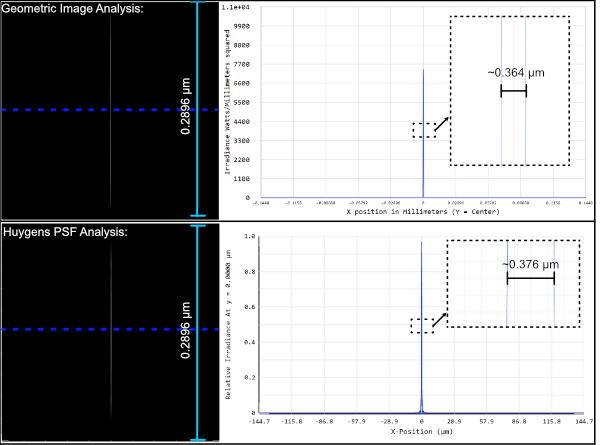
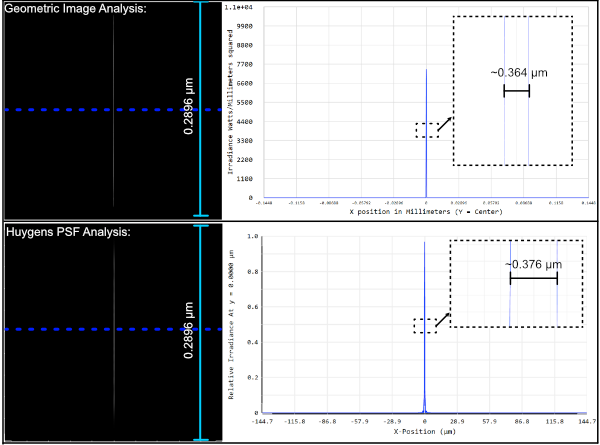
deploy: c35cceda275253135926ff3261742bbbe5f97372

Changed region(s): [[0.0, 0.0, 1.0, 1.0], [0.48, 0.4382, 0.51, 0.4674]]

diff --git a/searchindex.js b/searchindex.js
@@ -1,1 +1,1 @@
-Search.setIndex({"docnames": ["_templates/custom_class", "_templates/custom_module", "design_principles/design_process", "design_principles/required_software", "index", "introduction/aslm", "introduction/background", "introduction/nanospim", "introduction/opm", "introduction/principles"], "filenames": ["_templates/custom_class.rst", "_templates/custom_module.rst", "design_principles/design_process.rst", "design_principles/required_software.rst", "index.rst", "introduction/aslm.rst", "introduction/background.rst", "introduction/nanospim.rst", "introduction/opm.rst", "introduction/principles.rst"], "titles": ["&lt;no title&gt;", "&lt;no title&gt;", "General Design Process", "Required Software and Packages", "<strong>navigate-hardware</strong>", "ASLM", "Why Light-Sheet Microscopy?", "NanoSPIM", "OPM", "Light-Sheet Microscopy Optical Principles"], "terms": {"fullnam": [0, 1], "escap": [0, 1], "underlin": [0, 1], "block": [1, 6], "modul": [1, 6, 7], "rubric": 1, "item": 1, "endfor": 1, "endif": 1, "endblock": 1, "prior": [2, 8], "start": [2, 6], "optic": [2, 3, 4, 5, 6, 7, 8], "": [2, 8], "conveni": [2, 8], "straightforward": 2, "calcul": 2, "determin": 2, "which": [2, 5, 6, 7, 8], "lens": 2, "us": [2, 3, 4, 5, 6, 7, 8], "train": [2, 6, 7, 8], "achiev": [2, 6], "desir": 2, "field": [2, 5, 6, 8, 9], "view": [2, 5, 6, 7, 8, 9], "fov": 2, "your": [2, 7], "detect": [2, 5, 6, 8, 9], "path": [2, 5], "In": [2, 5, 6, 7], "our": [2, 3, 8], "case": [2, 6], "consist": 2, "400": [2, 5], "mm": 2, "tube": 2, "nikon": 2, "25x": 2, "1": [2, 8], "numer": [2, 4, 6, 8], "apertur": [2, 8], "na": 2, "immers": [2, 8], "object": [2, 5, 7, 8, 9], "To": [2, 6, 7, 8], "target": 2, "final": 2, "magnif": 2, "m": 2, "system": [2, 3, 4, 6, 8], "ratio": [2, 6], "focal": [2, 5, 6, 8], "length": [2, 7, 8], "f": 2, "tl": 2, "do": 2, "from": [2, 4, 5, 6, 8], "result": 2, "divid": 2, "total": 2, "camera": [2, 5, 6, 7, 8], "sensor": 2, "size": 2, "convert": [2, 5], "micron": [2, 6], "w": 2, "1000": 2, "For": [2, 3, 5, 6, 8], "thi": [2, 3, 4, 5, 6, 8], "266": 2, "mu": 2, "mean": 2, "we": [2, 3, 5, 8], "want": 2, "illumin": [2, 5, 6, 7, 8, 9], "produc": [2, 6], "light": [2, 4, 5, 8], "sheet": [2, 4, 5, 8], "close": 2, "can": [2, 4, 6, 8], "The": [2, 4, 8], "overarch": 2, "goal": 2, "standard": [2, 8], "i": [2, 3, 4, 5, 6, 7, 8], "both": [2, 4, 6, 8], "mold": 2, "particular": 2, "shape": 2, "direct": [2, 5, 8], "locat": 2, "work": 2, "an": [2, 5, 6, 7, 8], "input": 2, "gaussian": [2, 5], "beam": [2, 5, 7], "thin": [2, 7, 8], "sampl": [2, 5, 6, 7], "There": 2, "ar": [2, 3, 4, 6, 7, 8], "few": 2, "set": 2, "criteria": [2, 6], "help": 2, "guid": 2, "potenti": [2, 6], "As": [2, 5, 7], "mention": [2, 7], "ideal": [2, 5, 6, 7], "cover": 2, "full": 2, "\u03bcm": 2, "At": 2, "cylindr": 2, "spot": 2, "stai": 2, "under": [2, 4], "reson": 2, "galvo": 2, "12": 2, "diamet": 2, "need": [2, 6, 7], "distanc": [2, 7], "between": [2, 5], "mirror": [2, 5], "greater": [2, 7], "than": [2, 5, 8], "55": 2, "due": 2, "mechan": [2, 4, 5, 8], "consider": 2, "mount": [2, 5], "overfil": 2, "reason": [2, 3], "behind": 2, "thinner": 2, "width": 2, "With": 2, "mind": 2, "theoret": 2, "estim": 2, "what": 2, "after": [2, 6], "each": [2, 8], "consid": [2, 6], "everi": [2, 6], "pair": 2, "e": [2, 5, 6, 7], "2": [2, 6, 7, 8], "3": [2, 8], "sort": 2, "4f": [2, 7], "where": 2, "imag": [2, 4, 5, 7, 8], "n": 2, "follow": 2, "essenti": 2, "cascad": 2, "through": [2, 4, 5, 8], "make": 2, "sure": 2, "choic": [2, 3], "characterist": 2, "propag": [2, 5, 7], "chosen": 2, "featur": 2, "4": [2, 6, 7, 8], "thorlab": 2, "l1": 2, "30": 2, "l2": 2, "80": 2, "l3": 2, "75": 2, "l4": 2, "250": 2, "take": [2, 6, 8], "load": 2, "them": [2, 8], "opticstudio": [2, 3], "verifi": 2, "characterisitc": 2, "download": 2, "file": 2, "associ": [2, 4], "directli": 2, "websit": [2, 3, 8], "up": [2, 6], "here": [2, 5, 6], "tool": [2, 6], "optim": [2, 4, 8], "placement": 2, "all": [2, 3, 7], "base": [2, 5, 8], "whether": [2, 4], "should": [2, 4, 6], "focus": [2, 5, 7, 8], "collim": 2, "rule": 2, "thumb": 2, "one": [2, 6, 7], "build": 2, "element": 2, "manner": 2, "instead": 2, "ad": 2, "try": 2, "aspect": [2, 3], "flow": [2, 8], "involv": 2, "either": 2, "next": 2, "same": [2, 8], "until": 2, "place": [2, 6, 8], "describ": 2, "more": [2, 4, 5, 7, 8], "detail": 2, "below": [2, 6], "went": 2, "creat": [2, 5, 7], "new": 2, "match": 2, "laser": [2, 6, 8], "open": 2, "copi": 2, "past": [2, 4], "surfac": 2, "optimz": 2, "wizard": 2, "f1": 2, "variabl": 2, "correct": 2, "posit": [2, 5], "run": 2, "remov": 2, "angular": 2, "d1": 2, "x": [2, 5, 6, 8], "f3": 2, "45": 2, "degre": 2, "d3": 2, "d4": 2, "within": [2, 6, 8], "avail": [2, 3], "investig": [2, 8], "primarili": 2, "geometr": 2, "huygen": 2, "psf": [2, 9], "innat": 2, "rai": [2, 8], "trace": 2, "most": [2, 6, 8], "its": [2, 5, 6, 7, 8], "oper": [2, 4, 8], "like": [2, 3], "accept": 2, "howev": [2, 5, 6, 7, 8], "output": 2, "approach": [2, 7], "diffract": [2, 5, 7], "limit": [2, 6, 7, 8], "frac": 2, "lambda": [2, 6], "2na": 2, "also": [2, 6, 8], "effect": [2, 6], "how": [2, 5, 8], "incorpor": 2, "anticip": 2, "line": [2, 7], "would": 2, "seen": 2, "cross": 2, "section": [2, 4], "see": 2, "expect": 2, "half": 2, "max": 2, "fwhm": 2, "lie": 2, "somewher": 2, "around": 2, "0": 2, "376": 2, "compar": 2, "two": [2, 5], "analys": [2, 6], "show": 2, "xy": 2, "profil": [2, 7], "well": [2, 6, 8], "center": [2, 4], "row": 2, "end": 2, "being": 2, "quit": 2, "similar": 2, "38": 2, "allow": [2, 6, 7, 8], "u": [2, 5, 7, 8], "evolut": 2, "point": [2, 6], "rang": 2, "enough": 2, "purpos": 2, "maximum": 2, "usabl": 2, "multipli": 2, "sqrt": 2, "when": [2, 4, 5, 6], "addit": [2, 6], "known": 2, "becom": 2, "increasingli": [2, 4], "import": [2, 8], "No": 2, "perfect": 2, "understand": 2, "sensit": [2, 6, 8], "variou": 2, "perturb": [2, 8], "along": 2, "small": [2, 6, 8], "displac": 2, "compris": 2, "similarli": 2, "util": [2, 4], "merit": 2, "function": 2, "fulli": 2, "customiz": 2, "serv": [2, 6], "defin": 2, "perform": [2, 4, 6, 7, 8], "chose": 2, "factor": 2, "rel": [2, 8], "perfectli": 2, "instanc": 2, "shown": 2, "operand": 2, "track": 2, "y": [2, 6, 8], "step": [2, 8], "chang": 2, "much": [2, 7], "toler": 2, "machin": 2, "given": 2, "fabric": 2, "compani": [2, 6], "look": 2, "across": 2, "005": 2, "finer": 2, "002": 2, "deviat": 2, "align": [2, 8], "dowel": 2, "pin": 2, "affect": 2, "overal": [2, 9], "depict": 2, "worst": 2, "scenario": 2, "offset": 2, "other": [2, 3], "compens": 2, "wai": 2, "mitig": 2, "tweak": 2, "25mm": 2, "translat": [2, 5, 6], "adjust": 2, "basic": 2, "number": 2, "mont": 2, "carlo": 2, "made": [2, 8], "evalu": [2, 4, 5, 8], "those": [2, 8], "report": 2, "some": [2, 8], "give": 2, "inform": 2, "exampl": [2, 5, 6, 8], "radii": 2, "materi": 2, "properti": 2, "ensur": 2, "abov": [2, 6], "certain": 2, "valu": 2, "though": 2, "even": [2, 6], "difficult": 2, "ascrib": 2, "cutoff": 2, "so": 2, "trend": 2, "correspond": 2, "24th": 2, "caus": 2, "largest": 2, "best": [2, 7, 8], "individu": [2, 4], "window": 2, "nomin": 2, "comparison": 2, "It": 2, "clear": 2, "shorter": 2, "span": 2, "tighter": 2, "might": 2, "offer": [2, 7], "onlin": 2, "typic": 2, "increas": [2, 5, 6, 7], "price": 2, "higher": [2, 7], "benefit": 2, "benefici": 2, "befor": 2, "time": [2, 4, 6, 7], "581": 2, "onc": 2, "again": 2, "advers": 2, "about": 2, "tenth": 2, "larger": [2, 8], "visual": 2, "closer": 2, "satisfi": 2, "suspend": 2, "midair": 2, "polari": 2, "long": [2, 7], "term": [2, 7], "stabil": 2, "compon": [2, 8], "character": 2, "part": [2, 4], "hole": 2, "subsequ": 2, "specif": [2, 6], "axi": [2, 6], "decid": 2, "post": [2, 5], "re": 2, "themselv": 2, "while": [2, 3, 4, 8], "abl": [2, 5, 7, 8], "capabl": 2, "rotat": [2, 5], "someth": 2, "rsp1": 2, "still": 2, "cad": 2, "insert": 2, "link": 2, "FOR": 2, "method": [2, 5, 6, 8], "upon": 2, "over": [2, 7, 8], "product": [2, 3, 6], "schemat": 2, "z": [2, 6], "thei": [2, 7, 8], "impart": 2, "central": 2, "idea": 2, "space": [2, 6], "three": 2, "account": 2, "thick": 2, "were": [2, 8], "autodesk": [2, 3], "inventor": [2, 3], "just": 2, "four": 2, "itself": 2, "These": [2, 8], "increment": 2, "inch": 2, "screw": 2, "breadboard": 2, "tabl": 2, "keep": 2, "height": 2, "briefli": 2, "discuss": [2, 8], "microscop": [2, 4, 7, 8], "navig": 2, "softwar": [2, 4, 5], "ax": 2, "previou": 2, "pictur": 2, "wa": [2, 5, 6, 7, 8], "eas": [2, 4], "20": 2, "predetermin": 2, "worth": 2, "5": [2, 6], "requir": [2, 4, 5, 6, 7], "holder": 2, "iri": 2, "rectangular": 2, "nd": 2, "filter": 2, "breakdown": 2, "list": 2, "onto": [2, 7], "separ": 2, "corner": 2, "ha": [2, 4, 5, 6, 8], "been": [2, 6, 8], "assembl": [2, 4, 8], "stack": 2, "begin": 2, "introduc": [2, 8], "curvatur": 2, "type": 2, "present": [2, 4], "stretch": 2, "bend": 2, "emploi": 2, "have": [2, 6, 8], "built": 2, "collar": 2, "scheme": 2, "order": 2, "fluoresc": [2, 8], "bead": 2, "agaros": 2, "imagej": 2, "quickli": 2, "reslic": 2, "intens": [2, 6], "project": [2, 7], "If": 2, "slight": [2, 8], "repeat": 2, "observ": 2, "live": 2, "feed": 2, "via": [2, 5], "continu": 2, "scan": [2, 5, 6, 7, 8], "mode": 2, "get": 2, "vicin": 2, "aim": [2, 8], "possibl": [2, 6], "move": [2, 8], "true": 2, "done": [2, 7], "quick": 2, "could": [2, 7], "top": 2, "panel": 2, "smooth": 2, "out": [2, 7], "fuzzi": 2, "bottom": 2, "appear": 2, "cleaner": 2, "varieti": 3, "ansi": 3, "zemax": [3, 4], "design": [3, 6, 7, 8], "custom": [3, 8], "basepl": [3, 4], "academ": 3, "licens": [3, 6], "free": [3, 5, 8], "charg": 3, "3d": [3, 4, 5], "model": [3, 6], "autocad": 3, "fusion": 3, "360": 3, "solidwork": 3, "altern": [3, 7], "appar": 3, "paragraph": 3, "biologist": 4, "transit": 4, "toward": [4, 8], "complex": [4, 7], "assai": 4, "volumetr": [4, 7, 8], "high": [4, 5, 6, 7, 8], "spatiotempor": [4, 6], "resolut": [4, 5, 6, 7, 8, 9], "develop": [4, 5, 6, 7, 8], "embryo": [4, 6, 8], "format": [4, 6, 8], "cell": [4, 5, 6, 7, 8], "immunolog": [4, 8], "synaps": [4, 8], "breast": 4, "cancer": 4, "organoid": 4, "migrat": [4, 6], "collagen": [4, 5], "matrix": [4, 5, 6], "cytoskelet": 4, "rearrang": 4, "polar": 4, "epitheli": [4, 7], "monolay": [4, 7], "biolog": [4, 5, 6, 8], "process": [4, 5], "onli": [4, 6, 8], "understood": 4, "non": [4, 6], "invas": 4, "quantit": [4, 6], "entireti": 4, "simpl": 4, "highli": [4, 6, 8], "simplifi": [4, 8], "optomechan": 4, "mainten": 4, "streamlin": 4, "optoelectron": 4, "control": [4, 5, 8], "robust": 4, "reliabl": 4, "activ": [4, 6, 7], "pleas": 4, "advis": 4, "dean": [4, 5, 7, 8], "lab": [4, 8], "implement": 4, "sever": [4, 6, 8], "safeguard": 4, "inher": 4, "risk": 4, "despit": [4, 6], "precaut": 4, "natur": [4, 8], "lead": [4, 6], "unpredict": 4, "outcom": 4, "therefor": [4, 7], "ut": 4, "southwestern": 4, "expressli": 4, "disclaim": 4, "ani": [4, 5, 6], "respons": [4, 8], "damag": 4, "loss": 4, "injuri": 4, "mai": 4, "aris": 4, "relat": 4, "user": 4, "awar": 4, "agre": 4, "own": [4, 6], "why": 4, "microscopi": [4, 5], "nanospim": 4, "aslm": 4, "opm": 4, "packag": [4, 5], "simul": 4, "overlin": 4, "subsect": 4, "gener": [4, 7], "initi": 4, "len": 4, "select": [4, 9], "setup": 4, "analysi": 4, "toleranc": 4, "note": 4, "differ": 4, "physic": 4, "coordin": 4, "definit": 4, "assembli": 4, "find": 4, "focu": [4, 7, 8], "minim": 4, "spheric": [4, 8], "aberr": [4, 5, 8], "includ": [4, 8], "kei": [4, 6, 8], "contribut": [4, 6], "support": 4, "univers": 4, "north": 4, "carolina": 4, "signal": [4, 6], "biomed": 4, "technologi": [4, 5, 6, 8], "dissemin": [4, 5, 6, 8], "btdd": 4, "nih": 4, "nation": 4, "institut": 4, "medic": 4, "scienc": 4, "rm1gm145399": 4, "metastat": [4, 5], "tumor": 4, "program": [4, 8], "cellular": [4, 6], "biologi": 4, "research": 4, "ccbir": 4, "u54ca268072": 4, "techniqu": 5, "successfulli": 5, "decoupl": 5, "trade": 5, "off": [5, 6], "axial": 5, "multiview": 5, "deconvolut": [5, 6], "former": 5, "multipl": [5, 7], "revers": 5, "complementari": 5, "computation": 5, "fuse": 5, "larg": [5, 6, 8], "burden": 5, "specimen": [5, 6, 7, 8], "data": [5, 6], "overhead": 5, "incompat": [5, 7, 8], "biosensor": [5, 6, 7], "contrast": [5, 6, 7], "invent": 5, "fiolka": 5, "2015": 5, "remot": [5, 8], "sweep": 5, "tightli": 5, "synchron": 5, "roll": 5, "shutter": 5, "cmo": 5, "determinist": 5, "piezo": 5, "voic": 5, "coil": 5, "conjug": [5, 8], "plane": [5, 6], "recent": [5, 8], "acceler": 5, "acquisit": [5, 6], "rate": [5, 6, 8], "200": 5, "frame": 5, "per": [5, 6], "second": 5, "novel": 5, "later": [5, 8], "galvanomet": [5, 7, 8], "importantli": [5, 6, 7, 8], "doe": 5, "comput": [5, 6], "deliv": [5, 6, 8], "100": [5, 6], "100\u00b5m": 5, "highest": 5, "nm": 5, "lsfm": [5, 6], "absenc": 5, "super": 5, "g": [5, 6, 7], "structur": [5, 6], "stimul": 5, "emiss": 5, "local": 5, "becaus": [5, 7, 8], "isotrop": [5, 6], "routin": [5, 6], "combin": [5, 6], "advanc": [5, 6], "vision": [5, 6], "alreadi": [5, 6], "provid": 5, "tremend": 5, "insight": [5, 6], "divers": 5, "phenomena": [5, 8], "shape3d": 5, "kra": 5, "pip2": 5, "influenc": 5, "morphologi": [5, 6], "motion": [5, 7], "environ": [5, 6], "refract": [5, 8], "rather": 5, "entir": [5, 8], "compat": [5, 6, 7, 8], "multiplex": [5, 6, 7], "excit": [5, 6, 7], "optogenet": [5, 8], "probe": [5, 6, 8], "suit": [5, 7], "molecular": 5, "underli": 5, "interact": 5, "extracellular": [5, 6], "histor": 6, "spin": 6, "disk": 6, "confoc": 6, "indiscrimin": 6, "region": [6, 8], "thu": [6, 7, 8], "incur": 6, "photobleach": [6, 7], "phototox": 6, "problem": 6, "further": 6, "exacerb": 6, "reduc": [6, 7, 8], "duti": [6, 9], "cycl": [6, 9], "percentag": 6, "durat": 6, "necessarili": 6, "compensatori": 6, "power": [6, 7], "depend": 6, "restrict": 6, "2d": 6, "interest": 6, "ow": [6, 8], "quantum": 6, "effici": 6, "massiv": 6, "parallel": [6, 8], "scientif": [6, 8], "4x10": 6, "6": [6, 8], "without": 6, "compromis": [6, 8], "speed": 6, "nois": 6, "illustr": 6, "common": 6, "voxel": 6, "dwell": 6, "1\u00b5": 6, "16": 6, "captur": [6, 8], "2048x2048": 6, "ident": 6, "5m": 6, "832": 6, "fold": [6, 7, 8], "faster": [6, 7], "yet": 6, "000": 6, "longer": 6, "consequ": 6, "veri": [6, 7], "delic": 6, "gain": 6, "event": [6, 7], "subcellular": 6, "scale": 6, "must": 6, "molecularli": 6, "label": 6, "opto": 6, "chemogenet": [6, 8], "human": 6, "interpret": 6, "5d": 6, "t": 6, "dataset": 6, "met": 6, "nyquist": 6, "gtpase": 6, "rho": 6, "rac": 6, "cdc42": 6, "short": 6, "occur": 6, "complet": 6, "volum": 6, "acquir": 6, "spatial": [6, 7], "500nm": 6, "And": [6, 8], "avoid": 6, "artifact": 6, "nearli": 6, "inde": 6, "particularli": 6, "plasma": 6, "membran": 6, "readout": 6, "simultan": [6, 7, 8], "multicolor": [6, 7], "leverag": [6, 8], "uncompromis": 6, "impact": 6, "ectop": 6, "express": 6, "protein": 6, "toxic": 6, "latter": 6, "10": [6, 8], "slice": 6, "construct": 6, "dimens": 6, "maxim": [6, 8], "mani": 6, "25\u00b5m": [6, 7], "lastli": [6, 8], "downstream": 6, "analyt": 6, "cannot": 6, "iter": 6, "improv": 6, "alter": 6, "statist": [6, 7], "necessari": 6, "exist": 6, "aesthet": 6, "attract": 6, "engin": 6, "servic": 6, "return": 6, "invest": 6, "manufactur": 6, "incredibli": 6, "conserv": 6, "come": 6, "adopt": [6, 8], "emerg": 6, "7": [6, 8], "year": 6, "commerci": 6, "immedi": 6, "obsolet": 6, "commun": 6, "dure": [6, 7, 8], "interim": 6, "One": 6, "except": 6, "llsm": [6, 7, 8], "sub": 6, "zeiss": 6, "3i": 6, "month": 6, "semin": 6, "public": 6, "nonetheless": [6, 8], "took": [6, 8], "releas": 6, "consum": 6, "friendli": 6, "prohibit": [6, 8], "cost": 6, "1m": 6, "usd": 6, "convolut": 6, "entangl": 6, "patent": 6, "landscap": 6, "add": 6, "delai": 6, "access": 6, "market": 6, "leica": 6, "exclus": 6, "tertiari": [6, 8], "therebi": 6, "obliqu": 6, "impedi": 6, "transform": 6, "cut": 6, "edg": 6, "superposit": 7, "invari": 7, "sourc": 7, "theori": 7, "maintain": 7, "narrow": 7, "waist": 7, "arbitrarili": 7, "practic": 7, "accompani": [7, 8], "sidelob": 7, "blur": 7, "degrad": [7, 8], "contrast8": 7, "modest": 7, "adher": 7, "previous": 7, "sculpt": 7, "furthermor": [7, 8], "decreas": 7, "throughput": 7, "expens": 7, "overcom": [7, 8], "colleagu": 7, "mathemat": 7, "theorem": 7, "recreat": 7, "averag": 7, "dither": 7, "replica": 7, "multiplexing11": 7, "amplitud": 7, "phase": 7, "back": 7, "pupil": [7, 8], "appropri": 7, "binari": 7, "mask": 7, "singl": [7, 8], "exposur": 7, "telescop": 7, "indistinguish": 7, "demonstr": 7, "pi3k": 7, "filopodi": 7, "bleb": 7, "dynam": 7, "mv3": 7, "melanoma": 7, "wavelength": 7, "critic": [7, 8], "fast": 7, "morpholog": [7, 8], "buckl": 7, "orthogon": 8, "geometri": 8, "underappreci": 8, "disadvantag": 8, "hardwar": 8, "thermal": 8, "drift": 8, "dish": 8, "multi": 8, "plate": 8, "microfluid": 8, "establish": 8, "chemotact": 8, "gradient": 8, "chamber": 8, "level": 8, "shear": 8, "stress": 8, "reagent": 8, "consumpt": 8, "8": 8, "5ml": 8, "pharmacolog": 8, "braf": 8, "inhibit": 8, "water": 8, "dip": 8, "steril": 8, "slow": 8, "24": 8, "hour": 8, "sarcomerogenesi": 8, "effort": 8, "ultra": 8, "fluorocarbon": 8, "foil": 8, "cuvett": 8, "index": 8, "mismatch": 8, "amount": 8, "launch": 8, "collect": 8, "refer": 8, "primari": 8, "secondari": 8, "reorient": 8, "invert": 8, "remain": 8, "suffer": 8, "diminish": 8, "imperfect": 8, "margin": 8, "bo": 8, "huang": 8, "ucsf": 8, "compress": 8, "cone": 8, "camera58": 8, "cowork": 8, "concept": 8, "logic": 8, "conclus": 8, "solid": 8, "impress": 8, "28": 8, "29": 8, "raw": 8, "299x336x731nm": 8, "extent": 8, "gastrul": 8, "drosophila": 8, "identifi": 8, "rare": 8, "subset": 8, "killer": 8, "form": 8, "Its": 8, "precis": 8, "photoactiv": 8, "rac1": 8, "lamellipodia": 8, "fibroblast": 8, "squeez": 8, "confin": 8, "devic": 8, "rapidli": 8, "de": 8, "calcium": 8, "wave": 8, "cytoplasm": 8, "diffus": 8, "13": 8, "hz": 8, "respect": 8, "Of": 8, "technic": 8, "demand": 8, "front": 8, "glass": 8, "interfac": 8, "execut": 8, "autom": 8, "fashion": 8, "diascop": 8, "carefulli": 8, "fix": 8, "asi": 8, "stationari": 8, "depth": 8, "visitor": 8, "dbp": 8, "core": 8, "facil": 8, "manag": 8, "propos": 8, "uniform": 9}, "objects": {}, "objtypes": {}, "objnames": {}, "titleterms": {"gener": 2, "design": [2, 4], "process": 2, "initi": 2, "len": 2, "select": 2, "zemax": 2, "simul": [2, 3], "setup": 2, "analysi": 2, "toleranc": 2, "basepl": 2, "note": 2, "differ": 2, "physic": 2, "coordin": 2, "definit": 2, "assembli": 2, "find": 2, "focu": 2, "minim": 2, "spheric": 2, "aberr": 2, "requir": 3, "softwar": 3, "packag": 3, "overlin": 3, "part": 3, "section": 3, "subsect": 3, "navig": 4, "hardwar": 4, "project": 4, "philosophi": 4, "introduct": 4, "principl": [4, 9], "author": 4, "fund": 4, "aslm": 5, "why": 6, "light": [6, 7, 9], "sheet": [6, 7, 9], "microscopi": [6, 7, 8, 9], "The": 6, "import": 6, "volumetr": 6, "imag": 6, "challeng": [6, 8], "3d": 6, "build": 6, "microscop": 6, "nanospim": 7, "background": [7, 8], "lattic": 7, "field": 7, "synthesi": 7, "opm": 8, "pitfal": 8, "lsfm": 8, "obliqu": 8, "plane": 8, "uniqu": 8, "optic": 9}, "envversion": {"sphinx.domains.c": 2, "sphinx.domains.changeset": 1, "sphinx.domains.citation": 1, "sphinx.domains.cpp": 8, "sphinx.domains.index": 1, "sphinx.domains.javascript": 2, "sphinx.domains.math": 2, "sphinx.domains.python": 3, "sphinx.domains.rst": 2, "sphinx.domains.std": 2, "sphinx": 57}, "alltitles": {"General Design Process": [[2, "general-design-process"]], "Initial Lens Selection": [[2, "initial-lens-selection"]], "Zemax Simulation Setup Process": [[2, "zemax-simulation-setup-process"]], "Zemax Simulation Analysis": [[2, "zemax-simulation-analysis"]], "Zemax Tolerancing Analysis": [[2, "zemax-tolerancing-analysis"]], "Baseplate Design": [[2, "baseplate-design"]], "Note on Difference in Simulated and Physical Coordinate Definitions": [[2, "note-on-difference-in-simulated-and-physical-coordinate-definitions"]], "Physical Assembly Process": [[2, "physical-assembly-process"]], "Finding the Focus": [[2, "finding-the-focus"]], "Minimizing Spherical Aberrations": [[2, "minimizing-spherical-aberrations"]], "Required Software and Packages": [[3, "required-software-and-packages"]], "Simulations": [[3, "simulations"]], "Overline for parts": [[3, "overline-for-parts"]], "Overline": [[3, "overline"]], "Sections": [[3, "sections"]], "Subsection": [[3, "subsection"]], "navigate-hardware": [[4, "navigate-hardware"]], "Project Philosophy": [[4, "project-philosophy"]], "Introduction": [[4, null]], "Design Principles": [[4, null]], "Authors": [[4, "authors"]], "Funding": [[4, "funding"]], "ASLM": [[5, "aslm"]], "Why Light-Sheet Microscopy?": [[6, "why-light-sheet-microscopy"]], "The Importance of Volumetric Imaging.": [[6, "the-importance-of-volumetric-imaging"]], "Challenges with 3D Imaging.": [[6, "challenges-with-3d-imaging"]], "Why build a microscope?": [[6, "why-build-a-microscope"]], "NanoSPIM": [[7, "nanospim"], [7, "id1"]], "Background": [[7, "background"], [8, "background"]], "Lattice Light-Sheet Microscopy": [[7, "lattice-light-sheet-microscopy"]], "Field Synthesis": [[7, "field-synthesis"]], "OPM": [[8, "opm"]], "Pitfalls of LSFM": [[8, "pitfalls-of-lsfm"]], "Oblique Plane Microscopy": [[8, "oblique-plane-microscopy"]], "Unique Challenges with OPMs": [[8, "unique-challenges-with-opms"]], "Light-Sheet Microscopy Optical Principles": [[9, "light-sheet-microscopy-optical-principles"]]}, "indexentries": {}})
+Search.setIndex({"docnames": ["_templates/custom_class", "_templates/custom_module", "design_principles/design_process", "design_principles/required_software", "index", "introduction/aslm", "introduction/background", "introduction/nanospim", "introduction/opm", "introduction/principles"], "filenames": ["_templates/custom_class.rst", "_templates/custom_module.rst", "design_principles/design_process.rst", "design_principles/required_software.rst", "index.rst", "introduction/aslm.rst", "introduction/background.rst", "introduction/nanospim.rst", "introduction/opm.rst", "introduction/principles.rst"], "titles": ["&lt;no title&gt;", "&lt;no title&gt;", "General Design Process", "Required Software and Packages", "<strong>navigate-hardware</strong>", "ASLM", "Why Light-Sheet Microscopy?", "NanoSPIM", "OPM", "Light-Sheet Microscopy Optical Principles"], "terms": {"fullnam": [0, 1], "escap": [0, 1], "underlin": [0, 1], "block": [1, 6], "modul": [1, 6, 7], "rubric": 1, "item": 1, "endfor": 1, "endif": 1, "endblock": 1, "prior": [2, 8], "start": [2, 6], "optic": [2, 3, 4, 5, 6, 7, 8], "": [2, 8], "conveni": [2, 8], "straightforward": 2, "calcul": 2, "determin": 2, "which": [2, 5, 6, 7, 8], "lens": 2, "us": [2, 3, 4, 5, 6, 7, 8], "train": [2, 6, 7, 8], "achiev": [2, 6], "desir": 2, "field": [2, 5, 6, 8, 9], "view": [2, 5, 6, 7, 8, 9], "fov": 2, "your": [2, 7], "detect": [2, 5, 6, 8, 9], "path": [2, 5], "In": [2, 5, 6, 7], "our": [2, 3, 8], "case": [2, 6], "consist": 2, "400": [2, 5], "mm": 2, "tube": 2, "nikon": 2, "25x": 2, "1": [2, 8], "numer": [2, 4, 6, 8], "apertur": [2, 8], "na": 2, "immers": [2, 8], "object": [2, 5, 7, 8, 9], "To": [2, 6, 7, 8], "target": 2, "final": 2, "magnif": 2, "m": 2, "system": [2, 3, 4, 6, 8], "ratio": [2, 6], "focal": [2, 5, 6, 8], "length": [2, 7, 8], "f": 2, "tl": 2, "do": 2, "from": [2, 4, 5, 6, 8], "result": 2, "divid": 2, "total": 2, "camera": [2, 5, 6, 7, 8], "sensor": 2, "size": 2, "convert": [2, 5], "micron": [2, 6], "w": 2, "1000": 2, "For": [2, 3, 5, 6, 8], "thi": [2, 3, 4, 5, 6, 8], "266": 2, "mu": 2, "mean": 2, "we": [2, 3, 5, 8], "want": 2, "illumin": [2, 5, 6, 7, 8, 9], "produc": [2, 6], "light": [2, 4, 5, 8], "sheet": [2, 4, 5, 8], "close": 2, "can": [2, 4, 6, 8], "The": [2, 4, 8], "overarch": 2, "goal": 2, "standard": [2, 8], "i": [2, 3, 4, 5, 6, 7, 8], "both": [2, 4, 6, 8], "mold": 2, "particular": 2, "shape": 2, "direct": [2, 5, 8], "locat": 2, "work": 2, "an": [2, 5, 6, 7, 8], "input": 2, "gaussian": [2, 5], "beam": [2, 5, 7], "thin": [2, 7, 8], "sampl": [2, 5, 6, 7], "There": 2, "ar": [2, 3, 4, 6, 7, 8], "few": 2, "set": 2, "criteria": [2, 6], "help": 2, "guid": 2, "potenti": [2, 6], "As": [2, 5, 7], "mention": [2, 7], "ideal": [2, 5, 6, 7], "cover": 2, "full": 2, "\u03bcm": 2, "At": 2, "cylindr": 2, "spot": 2, "stai": 2, "under": [2, 4], "reson": 2, "galvo": 2, "12": 2, "diamet": 2, "need": [2, 6, 7], "distanc": [2, 7], "between": [2, 5], "mirror": [2, 5], "greater": [2, 7], "than": [2, 5, 8], "55": 2, "due": 2, "mechan": [2, 4, 5, 8], "consider": 2, "mount": [2, 5], "overfil": 2, "reason": [2, 3], "behind": 2, "thinner": 2, "width": 2, "With": 2, "mind": 2, "theoret": 2, "estim": 2, "what": 2, "after": [2, 6], "each": [2, 8], "consid": [2, 6], "everi": [2, 6], "pair": 2, "e": [2, 5, 6, 7], "2": [2, 6, 7, 8], "3": [2, 8], "sort": 2, "4f": [2, 7], "where": 2, "imag": [2, 4, 5, 7, 8], "n": 2, "follow": 2, "essenti": 2, "cascad": 2, "through": [2, 4, 5, 8], "make": 2, "sure": 2, "choic": [2, 3], "characterist": 2, "propag": [2, 5, 7], "chosen": 2, "featur": 2, "4": [2, 6, 7, 8], "thorlab": 2, "l1": 2, "30": 2, "l2": 2, "80": 2, "l3": 2, "75": 2, "l4": 2, "250": 2, "take": [2, 6, 8], "load": 2, "them": [2, 8], "opticstudio": [2, 3], "verifi": 2, "characterisitc": 2, "download": 2, "file": 2, "associ": [2, 4], "directli": 2, "websit": [2, 3, 8], "up": [2, 6], "here": [2, 5, 6], "tool": [2, 6], "optim": [2, 4, 8], "placement": 2, "all": [2, 3, 7], "base": [2, 5, 8], "whether": [2, 4], "should": [2, 4, 6], "focus": [2, 5, 7, 8], "collim": 2, "rule": 2, "thumb": 2, "one": [2, 6, 7], "build": 2, "element": 2, "manner": 2, "instead": 2, "ad": 2, "try": 2, "aspect": [2, 3], "flow": [2, 8], "involv": 2, "either": 2, "next": 2, "same": [2, 8], "until": 2, "place": [2, 6, 8], "describ": 2, "more": [2, 4, 5, 7, 8], "detail": 2, "below": [2, 6], "went": 2, "creat": [2, 5, 7], "new": 2, "match": 2, "laser": [2, 6, 8], "open": 2, "copi": 2, "past": [2, 4], "surfac": 2, "optimz": 2, "wizard": 2, "f1": 2, "variabl": 2, "correct": 2, "posit": [2, 5], "run": 2, "remov": 2, "angular": 2, "d1": 2, "x": [2, 5, 6, 8], "f3": 2, "45": 2, "degre": 2, "d3": 2, "d4": 2, "within": [2, 6, 8], "avail": [2, 3], "investig": [2, 8], "primarili": 2, "geometr": 2, "huygen": 2, "psf": [2, 9], "innat": 2, "rai": [2, 8], "trace": 2, "most": [2, 6, 8], "its": [2, 5, 6, 7, 8], "oper": [2, 4, 8], "like": [2, 3], "accept": 2, "howev": [2, 5, 6, 7, 8], "output": 2, "approach": [2, 7], "diffract": [2, 5, 7], "limit": [2, 6, 7, 8], "frac": 2, "lambda": [2, 6], "2na": 2, "also": [2, 6, 8], "effect": [2, 6], "how": [2, 5, 8], "incorpor": 2, "anticip": 2, "line": [2, 7], "would": 2, "seen": 2, "cross": 2, "section": [2, 4], "see": 2, "expect": 2, "half": 2, "max": 2, "fwhm": 2, "lie": 2, "somewher": 2, "around": 2, "0": 2, "376": 2, "compar": 2, "two": [2, 5], "analys": [2, 6], "show": 2, "xy": 2, "profil": [2, 7], "well": [2, 6, 8], "center": [2, 4], "row": 2, "end": 2, "being": 2, "quit": 2, "similar": 2, "37": 2, "allow": [2, 6, 7, 8], "u": [2, 5, 7, 8], "evolut": 2, "point": [2, 6], "rang": 2, "enough": 2, "purpos": 2, "maximum": 2, "usabl": 2, "multipli": 2, "sqrt": 2, "when": [2, 4, 5, 6], "addit": [2, 6], "known": 2, "becom": 2, "increasingli": [2, 4], "import": [2, 8], "No": 2, "perfect": 2, "understand": 2, "sensit": [2, 6, 8], "variou": 2, "perturb": [2, 8], "along": 2, "small": [2, 6, 8], "displac": 2, "compris": 2, "similarli": 2, "util": [2, 4], "merit": 2, "function": 2, "fulli": 2, "customiz": 2, "serv": [2, 6], "defin": 2, "perform": [2, 4, 6, 7, 8], "chose": 2, "factor": 2, "rel": [2, 8], "perfectli": 2, "instanc": 2, "shown": 2, "operand": 2, "track": 2, "y": [2, 6, 8], "step": [2, 8], "chang": 2, "much": [2, 7], "toler": 2, "machin": 2, "given": 2, "fabric": 2, "compani": [2, 6], "look": 2, "across": 2, "005": 2, "finer": 2, "002": 2, "deviat": 2, "align": [2, 8], "dowel": 2, "pin": 2, "affect": 2, "overal": [2, 9], "depict": 2, "worst": 2, "scenario": 2, "offset": 2, "other": [2, 3], "compens": 2, "wai": 2, "mitig": 2, "tweak": 2, "25mm": 2, "translat": [2, 5, 6], "adjust": 2, "basic": 2, "number": 2, "mont": 2, "carlo": 2, "made": [2, 8], "evalu": [2, 4, 5, 8], "those": [2, 8], "report": 2, "some": [2, 8], "give": 2, "inform": 2, "exampl": [2, 5, 6, 8], "radii": 2, "materi": 2, "properti": 2, "ensur": 2, "abov": [2, 6], "certain": 2, "valu": 2, "though": 2, "even": [2, 6], "difficult": 2, "ascrib": 2, "cutoff": 2, "so": 2, "trend": 2, "correspond": 2, "24th": 2, "caus": 2, "largest": 2, "best": [2, 7, 8], "individu": [2, 4], "window": 2, "nomin": 2, "comparison": 2, "It": 2, "clear": 2, "shorter": 2, "span": 2, "tighter": 2, "might": 2, "offer": [2, 7], "onlin": 2, "typic": 2, "increas": [2, 5, 6, 7], "price": 2, "higher": [2, 7], "benefit": 2, "benefici": 2, "befor": 2, "time": [2, 4, 6, 7], "581": 2, "onc": 2, "again": 2, "advers": 2, "about": 2, "tenth": 2, "larger": [2, 8], "visual": 2, "closer": 2, "satisfi": 2, "suspend": 2, "midair": 2, "polari": 2, "long": [2, 7], "term": [2, 7], "stabil": 2, "compon": [2, 8], "character": 2, "part": [2, 4], "hole": 2, "subsequ": 2, "specif": [2, 6], "axi": [2, 6], "decid": 2, "post": [2, 5], "re": 2, "themselv": 2, "while": [2, 3, 4, 8], "abl": [2, 5, 7, 8], "capabl": 2, "rotat": [2, 5], "someth": 2, "rsp1": 2, "still": 2, "cad": 2, "insert": 2, "link": 2, "FOR": 2, "method": [2, 5, 6, 8], "upon": 2, "over": [2, 7, 8], "product": [2, 3, 6], "schemat": 2, "z": [2, 6], "thei": [2, 7, 8], "impart": 2, "central": 2, "idea": 2, "space": [2, 6], "three": 2, "account": 2, "thick": 2, "were": [2, 8], "autodesk": [2, 3], "inventor": [2, 3], "just": 2, "four": 2, "itself": 2, "These": [2, 8], "increment": 2, "inch": 2, "screw": 2, "breadboard": 2, "tabl": 2, "keep": 2, "height": 2, "briefli": 2, "discuss": [2, 8], "microscop": [2, 4, 7, 8], "navig": 2, "softwar": [2, 4, 5], "ax": 2, "previou": 2, "pictur": 2, "wa": [2, 5, 6, 7, 8], "eas": [2, 4], "20": 2, "predetermin": 2, "worth": 2, "5": [2, 6], "requir": [2, 4, 5, 6, 7], "holder": 2, "iri": 2, "rectangular": 2, "nd": 2, "filter": 2, "breakdown": 2, "list": 2, "onto": [2, 7], "separ": 2, "corner": 2, "ha": [2, 4, 5, 6, 8], "been": [2, 6, 8], "assembl": [2, 4, 8], "stack": 2, "begin": 2, "introduc": [2, 8], "curvatur": 2, "type": 2, "present": [2, 4], "stretch": 2, "bend": 2, "emploi": 2, "have": [2, 6, 8], "built": 2, "collar": 2, "scheme": 2, "order": 2, "fluoresc": [2, 8], "bead": 2, "agaros": 2, "imagej": 2, "quickli": 2, "reslic": 2, "intens": [2, 6], "project": [2, 7], "If": 2, "slight": [2, 8], "repeat": 2, "observ": 2, "live": 2, "feed": 2, "via": [2, 5], "continu": 2, "scan": [2, 5, 6, 7, 8], "mode": 2, "get": 2, "vicin": 2, "aim": [2, 8], "possibl": [2, 6], "move": [2, 8], "true": 2, "done": [2, 7], "quick": 2, "could": [2, 7], "top": 2, "panel": 2, "smooth": 2, "out": [2, 7], "fuzzi": 2, "bottom": 2, "appear": 2, "cleaner": 2, "varieti": 3, "ansi": 3, "zemax": [3, 4], "design": [3, 6, 7, 8], "custom": [3, 8], "basepl": [3, 4], "academ": 3, "licens": [3, 6], "free": [3, 5, 8], "charg": 3, "3d": [3, 4, 5], "model": [3, 6], "autocad": 3, "fusion": 3, "360": 3, "solidwork": 3, "altern": [3, 7], "appar": 3, "paragraph": 3, "biologist": 4, "transit": 4, "toward": [4, 8], "complex": [4, 7], "assai": 4, "volumetr": [4, 7, 8], "high": [4, 5, 6, 7, 8], "spatiotempor": [4, 6], "resolut": [4, 5, 6, 7, 8, 9], "develop": [4, 5, 6, 7, 8], "embryo": [4, 6, 8], "format": [4, 6, 8], "cell": [4, 5, 6, 7, 8], "immunolog": [4, 8], "synaps": [4, 8], "breast": 4, "cancer": 4, "organoid": 4, "migrat": [4, 6], "collagen": [4, 5], "matrix": [4, 5, 6], "cytoskelet": 4, "rearrang": 4, "polar": 4, "epitheli": [4, 7], "monolay": [4, 7], "biolog": [4, 5, 6, 8], "process": [4, 5], "onli": [4, 6, 8], "understood": 4, "non": [4, 6], "invas": 4, "quantit": [4, 6], "entireti": 4, "simpl": 4, "highli": [4, 6, 8], "simplifi": [4, 8], "optomechan": 4, "mainten": 4, "streamlin": 4, "optoelectron": 4, "control": [4, 5, 8], "robust": 4, "reliabl": 4, "activ": [4, 6, 7], "pleas": 4, "advis": 4, "dean": [4, 5, 7, 8], "lab": [4, 8], "implement": 4, "sever": [4, 6, 8], "safeguard": 4, "inher": 4, "risk": 4, "despit": [4, 6], "precaut": 4, "natur": [4, 8], "lead": [4, 6], "unpredict": 4, "outcom": 4, "therefor": [4, 7], "ut": 4, "southwestern": 4, "expressli": 4, "disclaim": 4, "ani": [4, 5, 6], "respons": [4, 8], "damag": 4, "loss": 4, "injuri": 4, "mai": 4, "aris": 4, "relat": 4, "user": 4, "awar": 4, "agre": 4, "own": [4, 6], "why": 4, "microscopi": [4, 5], "nanospim": 4, "aslm": 4, "opm": 4, "packag": [4, 5], "simul": 4, "overlin": 4, "subsect": 4, "gener": [4, 7], "initi": 4, "len": 4, "select": [4, 9], "setup": 4, "analysi": 4, "toleranc": 4, "note": 4, "differ": 4, "physic": 4, "coordin": 4, "definit": 4, "assembli": 4, "find": 4, "focu": [4, 7, 8], "minim": 4, "spheric": [4, 8], "aberr": [4, 5, 8], "includ": [4, 8], "kei": [4, 6, 8], "contribut": [4, 6], "support": 4, "univers": 4, "north": 4, "carolina": 4, "signal": [4, 6], "biomed": 4, "technologi": [4, 5, 6, 8], "dissemin": [4, 5, 6, 8], "btdd": 4, "nih": 4, "nation": 4, "institut": 4, "medic": 4, "scienc": 4, "rm1gm145399": 4, "metastat": [4, 5], "tumor": 4, "program": [4, 8], "cellular": [4, 6], "biologi": 4, "research": 4, "ccbir": 4, "u54ca268072": 4, "techniqu": 5, "successfulli": 5, "decoupl": 5, "trade": 5, "off": [5, 6], "axial": 5, "multiview": 5, "deconvolut": [5, 6], "former": 5, "multipl": [5, 7], "revers": 5, "complementari": 5, "computation": 5, "fuse": 5, "larg": [5, 6, 8], "burden": 5, "specimen": [5, 6, 7, 8], "data": [5, 6], "overhead": 5, "incompat": [5, 7, 8], "biosensor": [5, 6, 7], "contrast": [5, 6, 7], "invent": 5, "fiolka": 5, "2015": 5, "remot": [5, 8], "sweep": 5, "tightli": 5, "synchron": 5, "roll": 5, "shutter": 5, "cmo": 5, "determinist": 5, "piezo": 5, "voic": 5, "coil": 5, "conjug": [5, 8], "plane": [5, 6], "recent": [5, 8], "acceler": 5, "acquisit": [5, 6], "rate": [5, 6, 8], "200": 5, "frame": 5, "per": [5, 6], "second": 5, "novel": 5, "later": [5, 8], "galvanomet": [5, 7, 8], "importantli": [5, 6, 7, 8], "doe": 5, "comput": [5, 6], "deliv": [5, 6, 8], "100": [5, 6], "100\u00b5m": 5, "highest": 5, "nm": 5, "lsfm": [5, 6], "absenc": 5, "super": 5, "g": [5, 6, 7], "structur": [5, 6], "stimul": 5, "emiss": 5, "local": 5, "becaus": [5, 7, 8], "isotrop": [5, 6], "routin": [5, 6], "combin": [5, 6], "advanc": [5, 6], "vision": [5, 6], "alreadi": [5, 6], "provid": 5, "tremend": 5, "insight": [5, 6], "divers": 5, "phenomena": [5, 8], "shape3d": 5, "kra": 5, "pip2": 5, "influenc": 5, "morphologi": [5, 6], "motion": [5, 7], "environ": [5, 6], "refract": [5, 8], "rather": 5, "entir": [5, 8], "compat": [5, 6, 7, 8], "multiplex": [5, 6, 7], "excit": [5, 6, 7], "optogenet": [5, 8], "probe": [5, 6, 8], "suit": [5, 7], "molecular": 5, "underli": 5, "interact": 5, "extracellular": [5, 6], "histor": 6, "spin": 6, "disk": 6, "confoc": 6, "indiscrimin": 6, "region": [6, 8], "thu": [6, 7, 8], "incur": 6, "photobleach": [6, 7], "phototox": 6, "problem": 6, "further": 6, "exacerb": 6, "reduc": [6, 7, 8], "duti": [6, 9], "cycl": [6, 9], "percentag": 6, "durat": 6, "necessarili": 6, "compensatori": 6, "power": [6, 7], "depend": 6, "restrict": 6, "2d": 6, "interest": 6, "ow": [6, 8], "quantum": 6, "effici": 6, "massiv": 6, "parallel": [6, 8], "scientif": [6, 8], "4x10": 6, "6": [6, 8], "without": 6, "compromis": [6, 8], "speed": 6, "nois": 6, "illustr": 6, "common": 6, "voxel": 6, "dwell": 6, "1\u00b5": 6, "16": 6, "captur": [6, 8], "2048x2048": 6, "ident": 6, "5m": 6, "832": 6, "fold": [6, 7, 8], "faster": [6, 7], "yet": 6, "000": 6, "longer": 6, "consequ": 6, "veri": [6, 7], "delic": 6, "gain": 6, "event": [6, 7], "subcellular": 6, "scale": 6, "must": 6, "molecularli": 6, "label": 6, "opto": 6, "chemogenet": [6, 8], "human": 6, "interpret": 6, "5d": 6, "t": 6, "dataset": 6, "met": 6, "nyquist": 6, "gtpase": 6, "rho": 6, "rac": 6, "cdc42": 6, "short": 6, "occur": 6, "complet": 6, "volum": 6, "acquir": 6, "spatial": [6, 7], "500nm": 6, "And": [6, 8], "avoid": 6, "artifact": 6, "nearli": 6, "inde": 6, "particularli": 6, "plasma": 6, "membran": 6, "readout": 6, "simultan": [6, 7, 8], "multicolor": [6, 7], "leverag": [6, 8], "uncompromis": 6, "impact": 6, "ectop": 6, "express": 6, "protein": 6, "toxic": 6, "latter": 6, "10": [6, 8], "slice": 6, "construct": 6, "dimens": 6, "maxim": [6, 8], "mani": 6, "25\u00b5m": [6, 7], "lastli": [6, 8], "downstream": 6, "analyt": 6, "cannot": 6, "iter": 6, "improv": 6, "alter": 6, "statist": [6, 7], "necessari": 6, "exist": 6, "aesthet": 6, "attract": 6, "engin": 6, "servic": 6, "return": 6, "invest": 6, "manufactur": 6, "incredibli": 6, "conserv": 6, "come": 6, "adopt": [6, 8], "emerg": 6, "7": [6, 8], "year": 6, "commerci": 6, "immedi": 6, "obsolet": 6, "commun": 6, "dure": [6, 7, 8], "interim": 6, "One": 6, "except": 6, "llsm": [6, 7, 8], "sub": 6, "zeiss": 6, "3i": 6, "month": 6, "semin": 6, "public": 6, "nonetheless": [6, 8], "took": [6, 8], "releas": 6, "consum": 6, "friendli": 6, "prohibit": [6, 8], "cost": 6, "1m": 6, "usd": 6, "convolut": 6, "entangl": 6, "patent": 6, "landscap": 6, "add": 6, "delai": 6, "access": 6, "market": 6, "leica": 6, "exclus": 6, "tertiari": [6, 8], "therebi": 6, "obliqu": 6, "impedi": 6, "transform": 6, "cut": 6, "edg": 6, "superposit": 7, "invari": 7, "sourc": 7, "theori": 7, "maintain": 7, "narrow": 7, "waist": 7, "arbitrarili": 7, "practic": 7, "accompani": [7, 8], "sidelob": 7, "blur": 7, "degrad": [7, 8], "contrast8": 7, "modest": 7, "adher": 7, "previous": 7, "sculpt": 7, "furthermor": [7, 8], "decreas": 7, "throughput": 7, "expens": 7, "overcom": [7, 8], "colleagu": 7, "mathemat": 7, "theorem": 7, "recreat": 7, "averag": 7, "dither": 7, "replica": 7, "multiplexing11": 7, "amplitud": 7, "phase": 7, "back": 7, "pupil": [7, 8], "appropri": 7, "binari": 7, "mask": 7, "singl": [7, 8], "exposur": 7, "telescop": 7, "indistinguish": 7, "demonstr": 7, "pi3k": 7, "filopodi": 7, "bleb": 7, "dynam": 7, "mv3": 7, "melanoma": 7, "wavelength": 7, "critic": [7, 8], "fast": 7, "morpholog": [7, 8], "buckl": 7, "orthogon": 8, "geometri": 8, "underappreci": 8, "disadvantag": 8, "hardwar": 8, "thermal": 8, "drift": 8, "dish": 8, "multi": 8, "plate": 8, "microfluid": 8, "establish": 8, "chemotact": 8, "gradient": 8, "chamber": 8, "level": 8, "shear": 8, "stress": 8, "reagent": 8, "consumpt": 8, "8": 8, "5ml": 8, "pharmacolog": 8, "braf": 8, "inhibit": 8, "water": 8, "dip": 8, "steril": 8, "slow": 8, "24": 8, "hour": 8, "sarcomerogenesi": 8, "effort": 8, "ultra": 8, "fluorocarbon": 8, "foil": 8, "cuvett": 8, "index": 8, "mismatch": 8, "amount": 8, "launch": 8, "collect": 8, "refer": 8, "primari": 8, "secondari": 8, "reorient": 8, "invert": 8, "remain": 8, "suffer": 8, "diminish": 8, "imperfect": 8, "margin": 8, "bo": 8, "huang": 8, "ucsf": 8, "compress": 8, "cone": 8, "camera58": 8, "cowork": 8, "concept": 8, "logic": 8, "conclus": 8, "solid": 8, "impress": 8, "28": 8, "29": 8, "raw": 8, "299x336x731nm": 8, "extent": 8, "gastrul": 8, "drosophila": 8, "identifi": 8, "rare": 8, "subset": 8, "killer": 8, "form": 8, "Its": 8, "precis": 8, "photoactiv": 8, "rac1": 8, "lamellipodia": 8, "fibroblast": 8, "squeez": 8, "confin": 8, "devic": 8, "rapidli": 8, "de": 8, "calcium": 8, "wave": 8, "cytoplasm": 8, "diffus": 8, "13": 8, "hz": 8, "respect": 8, "Of": 8, "technic": 8, "demand": 8, "front": 8, "glass": 8, "interfac": 8, "execut": 8, "autom": 8, "fashion": 8, "diascop": 8, "carefulli": 8, "fix": 8, "asi": 8, "stationari": 8, "depth": 8, "visitor": 8, "dbp": 8, "core": 8, "facil": 8, "manag": 8, "propos": 8, "uniform": 9}, "objects": {}, "objtypes": {}, "objnames": {}, "titleterms": {"gener": 2, "design": [2, 4], "process": 2, "initi": 2, "len": 2, "select": 2, "zemax": 2, "simul": [2, 3], "setup": 2, "analysi": 2, "toleranc": 2, "basepl": 2, "note": 2, "differ": 2, "physic": 2, "coordin": 2, "definit": 2, "assembli": 2, "find": 2, "focu": 2, "minim": 2, "spheric": 2, "aberr": 2, "requir": 3, "softwar": 3, "packag": 3, "overlin": 3, "part": 3, "section": 3, "subsect": 3, "navig": 4, "hardwar": 4, "project": 4, "philosophi": 4, "introduct": 4, "principl": [4, 9], "author": 4, "fund": 4, "aslm": 5, "why": 6, "light": [6, 7, 9], "sheet": [6, 7, 9], "microscopi": [6, 7, 8, 9], "The": 6, "import": 6, "volumetr": 6, "imag": 6, "challeng": [6, 8], "3d": 6, "build": 6, "microscop": 6, "nanospim": 7, "background": [7, 8], "lattic": 7, "field": 7, "synthesi": 7, "opm": 8, "pitfal": 8, "lsfm": 8, "obliqu": 8, "plane": 8, "uniqu": 8, "optic": 9}, "envversion": {"sphinx.domains.c": 2, "sphinx.domains.changeset": 1, "sphinx.domains.citation": 1, "sphinx.domains.cpp": 8, "sphinx.domains.index": 1, "sphinx.domains.javascript": 2, "sphinx.domains.math": 2, "sphinx.domains.python": 3, "sphinx.domains.rst": 2, "sphinx.domains.std": 2, "sphinx": 57}, "alltitles": {"General Design Process": [[2, "general-design-process"]], "Initial Lens Selection": [[2, "initial-lens-selection"]], "Zemax Simulation Setup Process": [[2, "zemax-simulation-setup-process"]], "Zemax Simulation Analysis": [[2, "zemax-simulation-analysis"]], "Zemax Tolerancing Analysis": [[2, "zemax-tolerancing-analysis"]], "Baseplate Design": [[2, "baseplate-design"]], "Note on Difference in Simulated and Physical Coordinate Definitions": [[2, "note-on-difference-in-simulated-and-physical-coordinate-definitions"]], "Physical Assembly Process": [[2, "physical-assembly-process"]], "Finding the Focus": [[2, "finding-the-focus"]], "Minimizing Spherical Aberrations": [[2, "minimizing-spherical-aberrations"]], "Required Software and Packages": [[3, "required-software-and-packages"]], "Simulations": [[3, "simulations"]], "Overline for parts": [[3, "overline-for-parts"]], "Overline": [[3, "overline"]], "Sections": [[3, "sections"]], "Subsection": [[3, "subsection"]], "navigate-hardware": [[4, "navigate-hardware"]], "Project Philosophy": [[4, "project-philosophy"]], "Introduction": [[4, null]], "Design Principles": [[4, null]], "Authors": [[4, "authors"]], "Funding": [[4, "funding"]], "ASLM": [[5, "aslm"]], "Why Light-Sheet Microscopy?": [[6, "why-light-sheet-microscopy"]], "The Importance of Volumetric Imaging.": [[6, "the-importance-of-volumetric-imaging"]], "Challenges with 3D Imaging.": [[6, "challenges-with-3d-imaging"]], "Why build a microscope?": [[6, "why-build-a-microscope"]], "NanoSPIM": [[7, "nanospim"], [7, "id1"]], "Background": [[7, "background"], [8, "background"]], "Lattice Light-Sheet Microscopy": [[7, "lattice-light-sheet-microscopy"]], "Field Synthesis": [[7, "field-synthesis"]], "OPM": [[8, "opm"]], "Pitfalls of LSFM": [[8, "pitfalls-of-lsfm"]], "Oblique Plane Microscopy": [[8, "oblique-plane-microscopy"]], "Unique Challenges with OPMs": [[8, "unique-challenges-with-opms"]], "Light-Sheet Microscopy Optical Principles": [[9, "light-sheet-microscopy-optical-principles"]]}, "indexentries": {}})

diff --git a/design_principles/design_process.html b/design_principles/design_process.html
@@ -198,7 +198,7 @@ in-line with what would be seen on the physical system. Based on the cross secti
 see that our expected Full-Width Half-Max (FWHM) of the light sheet is expected to lie somewhere around 0.376 <span class="math notranslate nohighlight">\(\mu m\)</span>.</p>
 <p>We compare the results of these two analyses for our optimized illumination path below, where we show the full XY profile
 as well as cross-sections through the center row of both beam profiles. In this case, the FWHM of both analyses ends up
-being quite similar at ~0.38 <span class="math notranslate nohighlight">\(\mu m\)</span>.</p>
+being quite similar at ~0.37 <span class="math notranslate nohighlight">\(\mu m\)</span>.</p>
 <img alt="Comparison of Geometric Image Analysis and Huygen's PSF analysis for our optimized system" class="align-center" src="../_images/HuygensvsGeo.png" />
 <p>Through Focus Spot analysis allows us to essentially see the evolution of the light sheet through the point of focus,
 where we can then estimate a sort of range where we expect the width of the light sheet to be thin enough for our
